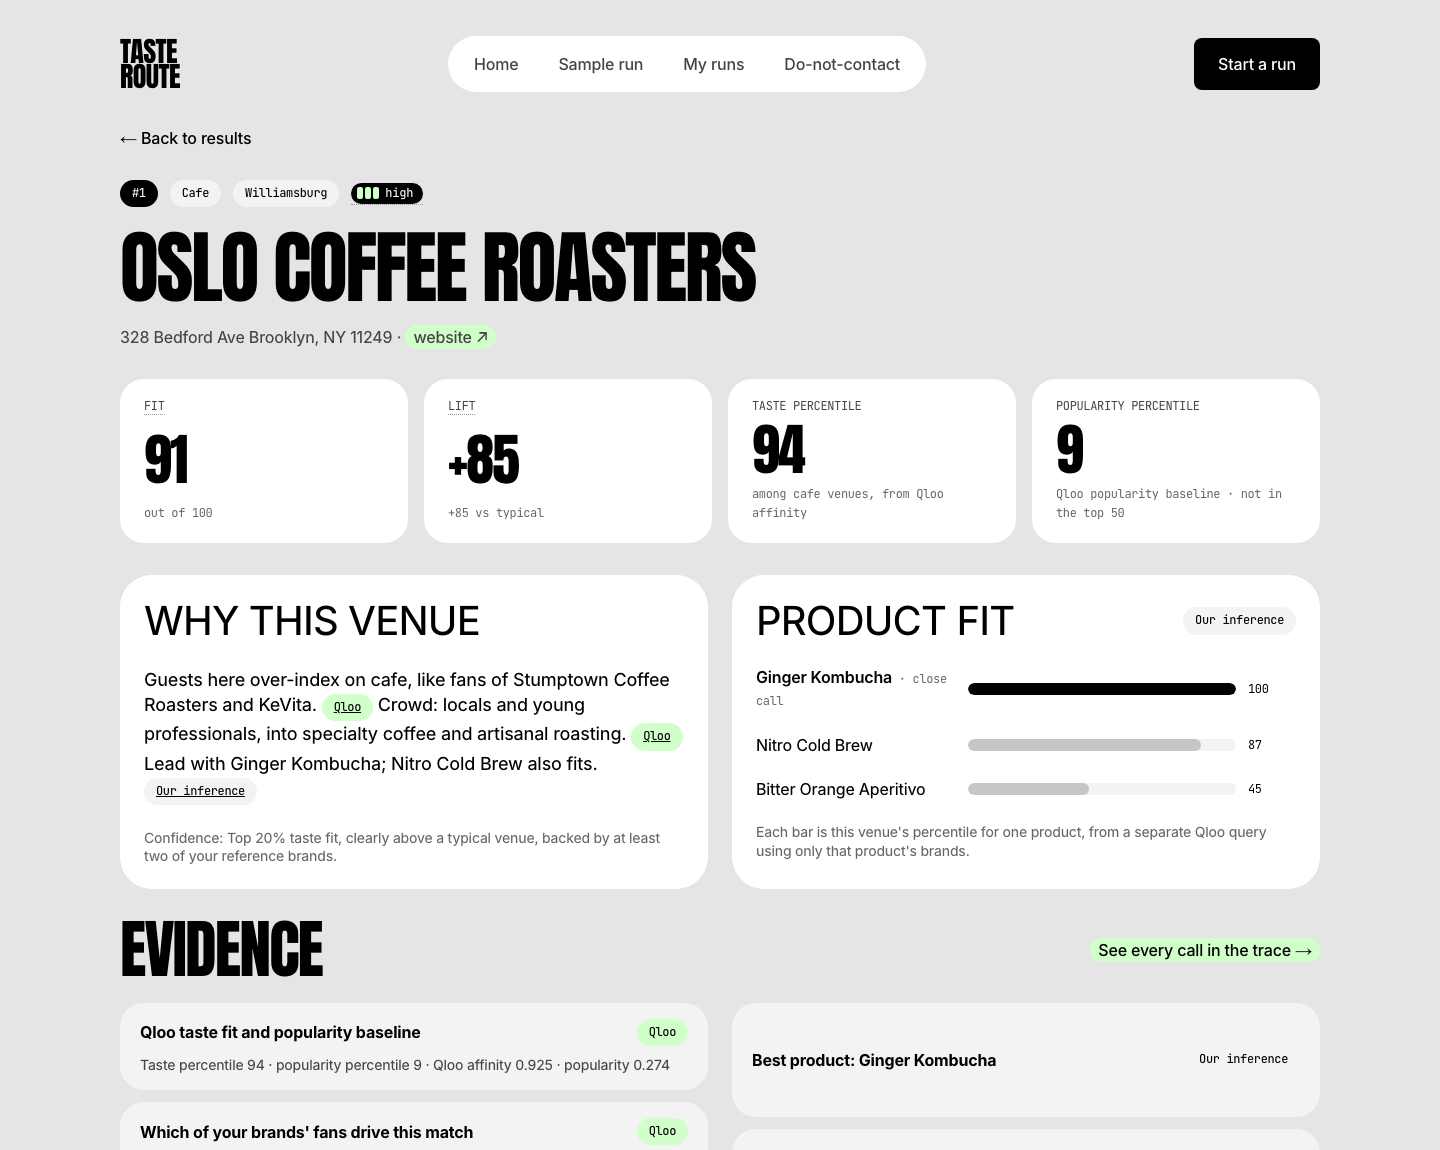
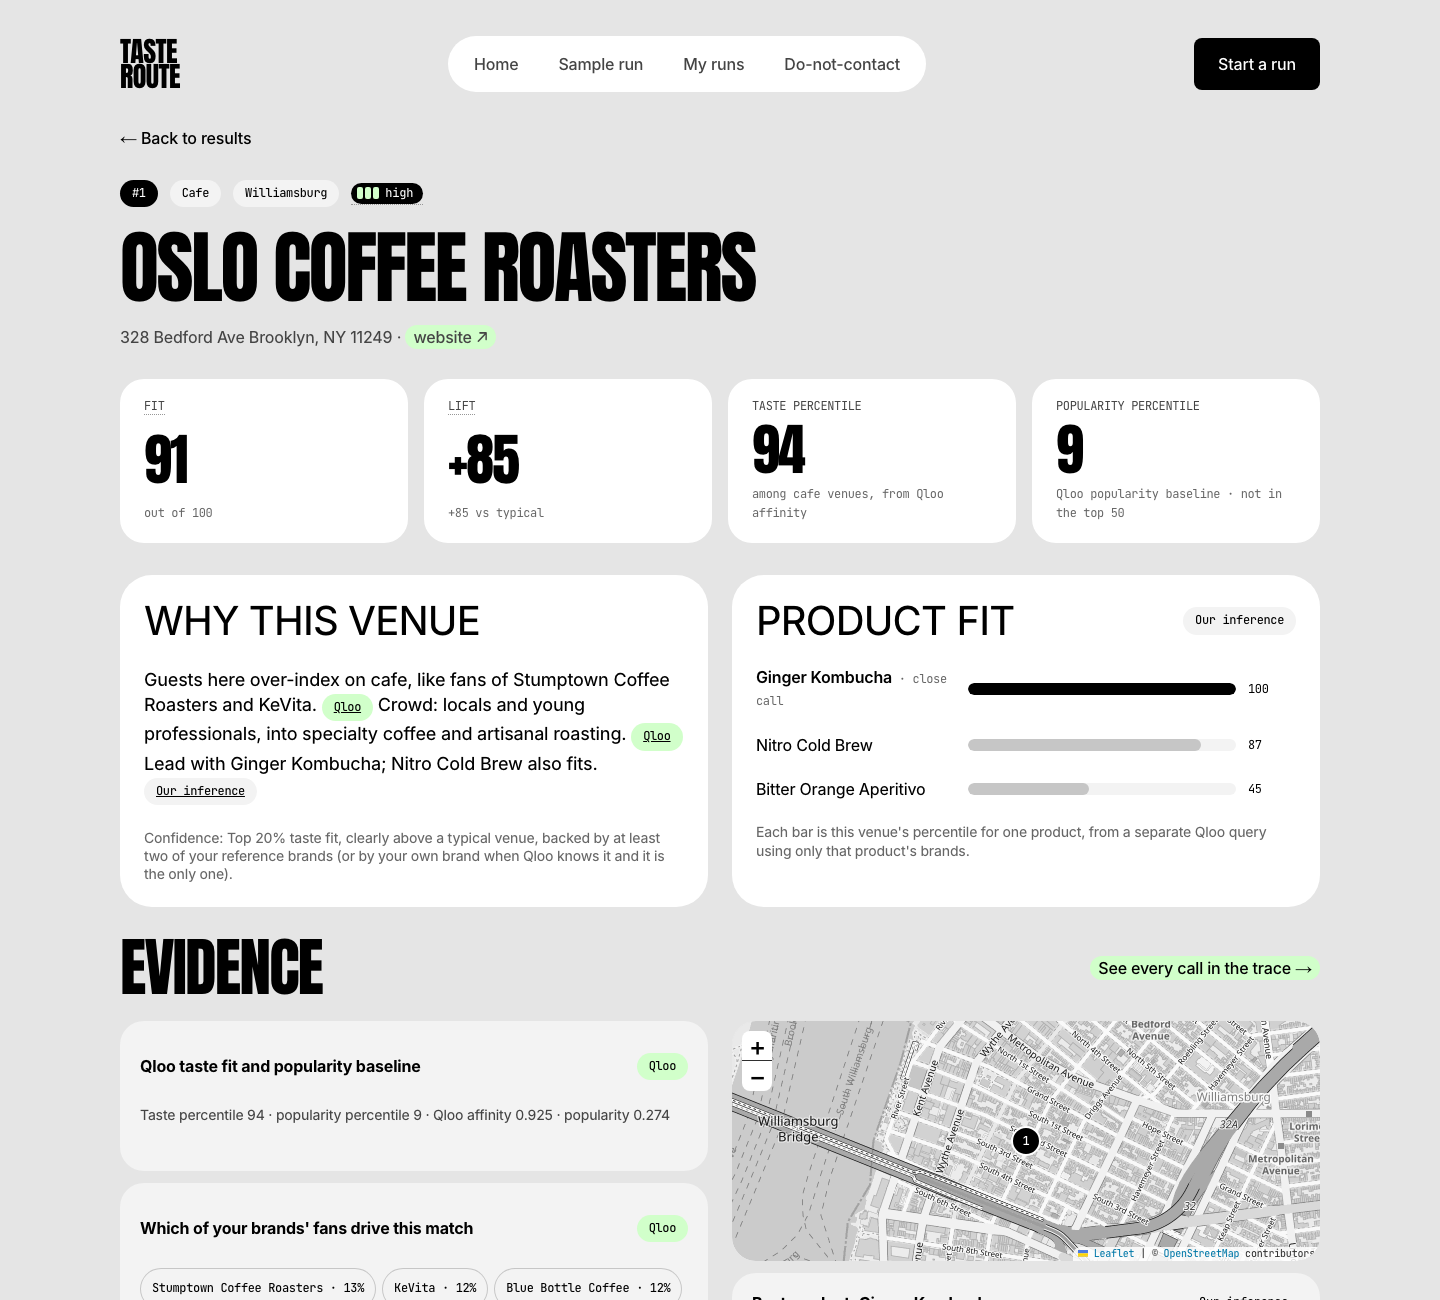
docs: architecture diagram in the README, grounding claims match what the validator checks, test counts, end-to-end script, contact coverage and run limits; map frames the numbered pins at whole zoom levels; screenshots with the map [REP-02, UI-01]

diff --git a/apps/web/components/venue-map.tsx b/apps/web/components/venue-map.tsx
@@ -38,8 +38,9 @@ export function VenueMap({ pins, label, height = 380 }: { pins: Pin[]; label: st
     if (key === fitted.current) return; // selection changes recolour pins without moving the map
     fitted.current = key;
     m.invalidateSize();
-    if (pts.length > 1) m.fitBounds(pts.map((p) => [p.lat, p.lon] as [number, number]), { padding: [24, 24], maxZoom: 15 });
-    else if (pts[0]) m.setView([pts[0].lat, pts[0].lon], 15);
+    const focus = pts.some((p) => !p.dot) ? pts.filter((p) => !p.dot) : pts; // frame the numbered pins; dots may sit just outside
+    if (focus.length > 1) m.fitBounds(focus.map((p) => [p.lat, p.lon] as [number, number]), { padding: [32, 32], maxZoom: 15 });
+    else if (focus[0]) m.setView([focus[0].lat, focus[0].lon], 15);
   };
 
   useEffect(() => {
@@ -47,7 +48,7 @@ export function VenueMap({ pins, label, height = 380 }: { pins: Pin[]; label: st
     import("leaflet").then((mod) => {
       if (!alive || !el.current || map.current) return;
       L.current = mod;
-      map.current = mod.map(el.current, { scrollWheelZoom: false, zoomSnap: 0.25 });
+      map.current = mod.map(el.current, { scrollWheelZoom: false });
       mod.tileLayer(TILES, { attribution: ATTRIBUTION, maxZoom: 19 }).addTo(map.current);
       layer.current = mod.layerGroup().addTo(map.current);
       draw();

diff --git a/README.md b/README.md
@@ -10,9 +10,9 @@
 </p>
 
 <p align="center">
-  <img src="./docs/screenshots/results.png" width="100%" alt="Results for the Brooklyn sample run: 60 venues ranked, 19 high confidence, 11 Qloo calls, the taste signal brands, filters, and a table of venues with fit, lift, confidence, best product, reason and contact status.">
+  <img src="./docs/screenshots/results.png" width="100%" alt="Results for the Brooklyn sample run: 60 venues ranked, 19 high confidence, 11 Qloo calls, the taste signal brands, filters, a map with the top 10 numbered by rank, and a table of venues with fit, lift, confidence, best product, reason and contact status.">
 </p>
-<p align="center"><sub>The sample run: a fictional Brooklyn drinks maker (cold brew, kombucha, aperitivo), 60 cafés and bars ranked from 11 Qloo calls.</sub></p>
+<p align="center"><sub>The sample run: a fictional Brooklyn drinks maker (cold brew, kombucha, aperitivo), 60 cafés and bars ranked from 11 Qloo calls. "Take the tour" on the sample walks through every screen.</sub></p>
 
 ## What it is
 
@@ -47,19 +47,37 @@ Switch Qloo off and TasteRoute says it cannot rank venues and stops. It never fa
 3. **Rank.** For each venue type, a Qloo `/v2/insights` place query with your brands as the signal and `feature.explainability` gives the **taste** percentile and which of your brands drive it. The same query without a signal gives the **popularity** baseline. `lift = taste − popularity`, `fit = 0.7 × taste + 0.3 × max(lift, 0)`.
 4. **Evidence and product fit.** One insights query per product with `filter.results.entities` scores every ranked venue for that product. Audience tags (`filter.type=urn:tag`) and each venue's Qloo tags explain the match. Reasons label each claim as "Qloo" or "Our inference".
 5. **Contacts.** Only public business addresses: the venue's OpenStreetMap listing and its own website (Hunter domain search when a key is set). Every contact shows where it was published.
-6. **Drafts.** The LLM writes a short pitch from an evidence bundle. A grounding validator rejects any name, number or claim not in that bundle; after one repair attempt, a template that always passes takes over. Nothing is sent for you.
+6. **Drafts.** The LLM writes a short pitch from an evidence bundle. A grounding validator rejects any name or number that is not in that bundle, and any draft that cites unknown evidence, misnames the venue or drops the opt-out line. After one repair attempt, a template that always passes takes over. Nothing is sent for you.
 
 An AI agent (Gemma 4 31B on Ollama Cloud, native tool calls) runs these steps as tools. A plan guard checks every call's phase, order and arguments. After two invalid steps, an unavailable model or the step limit, a deterministic plan runs the same tools and produces identical scores.
+
+```mermaid
+flowchart LR
+  W[Next.js web app] -- HTTPS + SSE --> R[FastAPI routes]
+  R --> AG[Agent loop + plan guard]
+  AG --> LLM[Gemma 4 31B on Ollama Cloud]
+  AG --> T[Tools]
+  AG -. fallback .-> DP[Deterministic plan] --> T
+  T --> Q[Qloo client: cache, rate limit, budget] --> QL[(Qloo API)]
+  T --> S[Scoring: fit, lift, confidence, product fit]
+  T --> X[Contacts: OpenStreetMap, venue sites, Hunter]
+  T --> G[Grounding validator]
+  R --> DB[(Postgres, row-level security)]
+  T --> DB
+  W -. map tiles .-> OSM[(OpenStreetMap tiles)]
+```
+
+Keys stay on the API. The browser calls only FastAPI, plus public map tiles that need no key.
 
 ## See every step
 
 <table>
   <tr>
-    <td width="50%"><img src="./docs/screenshots/venue.png" alt="Venue detail for Oslo Coffee Roasters: fit 91, lift +85, taste percentile 94, popularity percentile 9, reason with Qloo source chips, per-product fit bars and the Qloo evidence list."></td>
+    <td width="50%"><img src="./docs/screenshots/venue.png" alt="Venue detail for Oslo Coffee Roasters: fit 91, lift +85, taste percentile 94, popularity percentile 9, reason with Qloo source chips, per-product fit bars, the Qloo evidence list and a map."></td>
     <td width="50%"><img src="./docs/screenshots/outreach.png" alt="Outreach page: contacts with sources checked, an AI draft citing one Qloo fact, and an export bar."></td>
   </tr>
   <tr>
-    <td><b>Venue detail.</b> Fit, lift and both percentiles, per-product fit, and each piece of Qloo evidence.</td>
+    <td><b>Venue detail.</b> Fit, lift and both percentiles, per-product fit, each piece of Qloo evidence, and where the venue is.</td>
     <td><b>Outreach.</b> Contacts with their sources, editable drafts, approve, open in mail app, CSV export.</td>
   </tr>
   <tr>
@@ -112,6 +130,8 @@ uv run python scripts/seed_demo.py   # optional: builds the sample run with live
 cd ../.. && pnpm dev                 # web on http://localhost:3000, API on http://localhost:8000
 ```
 
+Open http://localhost:3000/sample?tour=1 for the guided tour of the sample run.
+
 Set `LLM_PROVIDER=fake` to run without an LLM key. Ranking still needs Qloo.
 
 ### Tests
@@ -122,13 +142,15 @@ createdb tasteroute_test
 pnpm turbo lint check-types test
 ```
 
-103 API tests (pytest) and 9 web tests (Vitest). Tests never call Qloo, the LLM or OpenStreetMap: recorded fixtures, a fake model, and a network block stand in. CI runs the same checks on Postgres 15.
+110 API tests (pytest) and 10 web tests (Vitest). Tests never call Qloo, the LLM or OpenStreetMap: recorded fixtures, a fake model, and a network block stand in. CI runs the same checks on Postgres 15 and fails if `packages/contracts` drifts from the API.
+
+With the API running, `uv run python scripts/e2e_smoke.py` (in `apps/api`) walks the whole judge path over HTTP: intake, Qloo matches, run, ranking, rescore, contacts, drafts, approval, CSV export, do-not-contact, trace. It makes live calls (about 10 Qloo and 15–25 LLM) and prints what it spent.
 
 ## Project layout
 
 ```text
 apps/api            FastAPI: Qloo client, scoring, agent and plan guard, outreach, SSE progress
-apps/web            Next.js: wizard, live run, results, venue detail, outreach, trace
+apps/web            Next.js: wizard, live run, results and map, venue detail, outreach, trace, guided tour
 packages/contracts  TypeScript types generated from the API's OpenAPI schema
 supabase/migrations Postgres schema (row-level security on every table)
 docs/               Product brief, architecture, Qloo contract, evaluation, runbook
@@ -138,7 +160,9 @@ docs/               Product brief, architecture, Qloo contract, evaluation, runb
 
 - Ranking covers only places Qloo knows. A great venue missing from Qloo never appears.
 - One demo city (Brooklyn) and one category pack (food and drink) are tuned and tested.
-- Contacts cover about half of top venues in the sample (4 of 8), from public listings and venue sites.
+- Contacts depend on what venues publish: 4 of the top 8 in the sample, 1 of 6 and 0 of 5 in two later test runs (Brooklyn bars, Chicago). Ranking never depends on them.
+- The public demo allows 3 live runs per visitor per day (`PUBLIC_RUNS_PER_IP_PER_DAY`). The sample run is always free.
+- The map uses OpenStreetMap's public tiles, which allow light use only.
 - Taste fit is a starting list, not a sales forecast.
 
 ## Licence

diff --git a/docs/progress.md b/docs/progress.md
@@ -56,16 +56,20 @@ Unit tests: progress reducer (replay ignored, failures), formatting, source-chip
 
 Done: README (hero and drawn flow in `assets/readme/`, real screenshots), MIT `LICENSE`, `docs/devpost.md`, CI (`.github/workflows/ci.yml`), Render blueprint (`render.yaml`). Project renamed to TasteRoute (package `tasteroute_api`, local DBs `tasteroute` / `tasteroute_test`).
 
+Claims audit and end-to-end check: every judge-path step passes over HTTP (`scripts/e2e_smoke.py`, run 9c15f088). Passing: SEC-01 (secret scan clean), API-01 (contracts current; CI now fails on drift), QLO-07, LLM-06, REP-01, REP-02 (architecture diagram added to the README), REP-03 (clean clone). Fixed on the way: contact choice prefers the venue's own sales or main inbox and drops placeholder, script-embedded and other-domain emails (CON-03, CON-05); brand name read from the site's title (INT-01); a one-brand signal can reach high confidence (FIT-02, D-13a); comparables must fit the product, so "Bubbies" no longer matches "Bubbies Ice Cream" (ENT-03); city search returns 503 when Nominatim is down (REL-01); tests refuse non-loopback sockets (SEC-01). Docs corrected: the grounding validator checks names, numbers, evidence ids, the venue name and the opt-out line, not general claims.
+
+Added at the user's request: a venue map on results and venue detail (Leaflet, grey OSM tiles, numbered rank pins) and a guided tour of the sample run (`?tour=1`, results → venue → outreach → trace). 110 API and 10 web tests pass. Not built: DAT-04 (stretch cleanup script).
+
 Open: public deploy (needs accounts and a Supabase URL), demo video, a cited wholesale figure for the Devpost text, blind-pair judging (metric 3) and reason checks (metric 4).
 
 ## Budget used
 
 | Service | Calls |
 |---|---|
-| Qloo | 86 live: 44 Phase 0 spikes (7 × 400 while learning the `take` limit), 25 first seed, 9 re-seed, 8 evaluation (re-run fully cached); 0 in tests |
-| Ollama Cloud | ~84: ~20 spike, ~20 first seed, 20 re-seed, 12 + 12 evaluation |
-| Venue websites | 8 re-seed (first seed also read venue sites) |
-| Nominatim / Overpass | 1 / 1 |
+| Qloo | 128 live: 44 Phase 0 spikes (7 × 400 while learning the `take` limit), 25 first seed, 9 re-seed, 8 evaluation (re-run fully cached), 42 claims audit and end-to-end runs; 0 in tests |
+| Ollama Cloud | ~157: ~20 spike, ~20 first seed, 20 re-seed, 12 + 12 evaluation, 11 sample outreach refresh, 62 audit and end-to-end runs |
+| Venue websites | 27 live in the local DB (seed, contact fixes, end-to-end runs) |
+| Nominatim / Overpass | 2 / 5 live in the local DB |
 | Hunter | 0 (no key) |
 
 ## Blockers / needed from the user

diff --git a/docs/03-architecture.md b/docs/03-architecture.md
@@ -87,7 +87,7 @@ flowchart LR
   T --> DB
 ```
 
-The browser talks **only** to FastAPI. It never calls Supabase, Qloo, Hunter or Ollama directly, so no key ever reaches the browser.
+The browser talks **only** to FastAPI, plus public OpenStreetMap tiles for the map (no key). It never calls Supabase, Qloo, Hunter or Ollama directly, so no key ever reaches the browser.
 
 ## Run lifecycle
 
